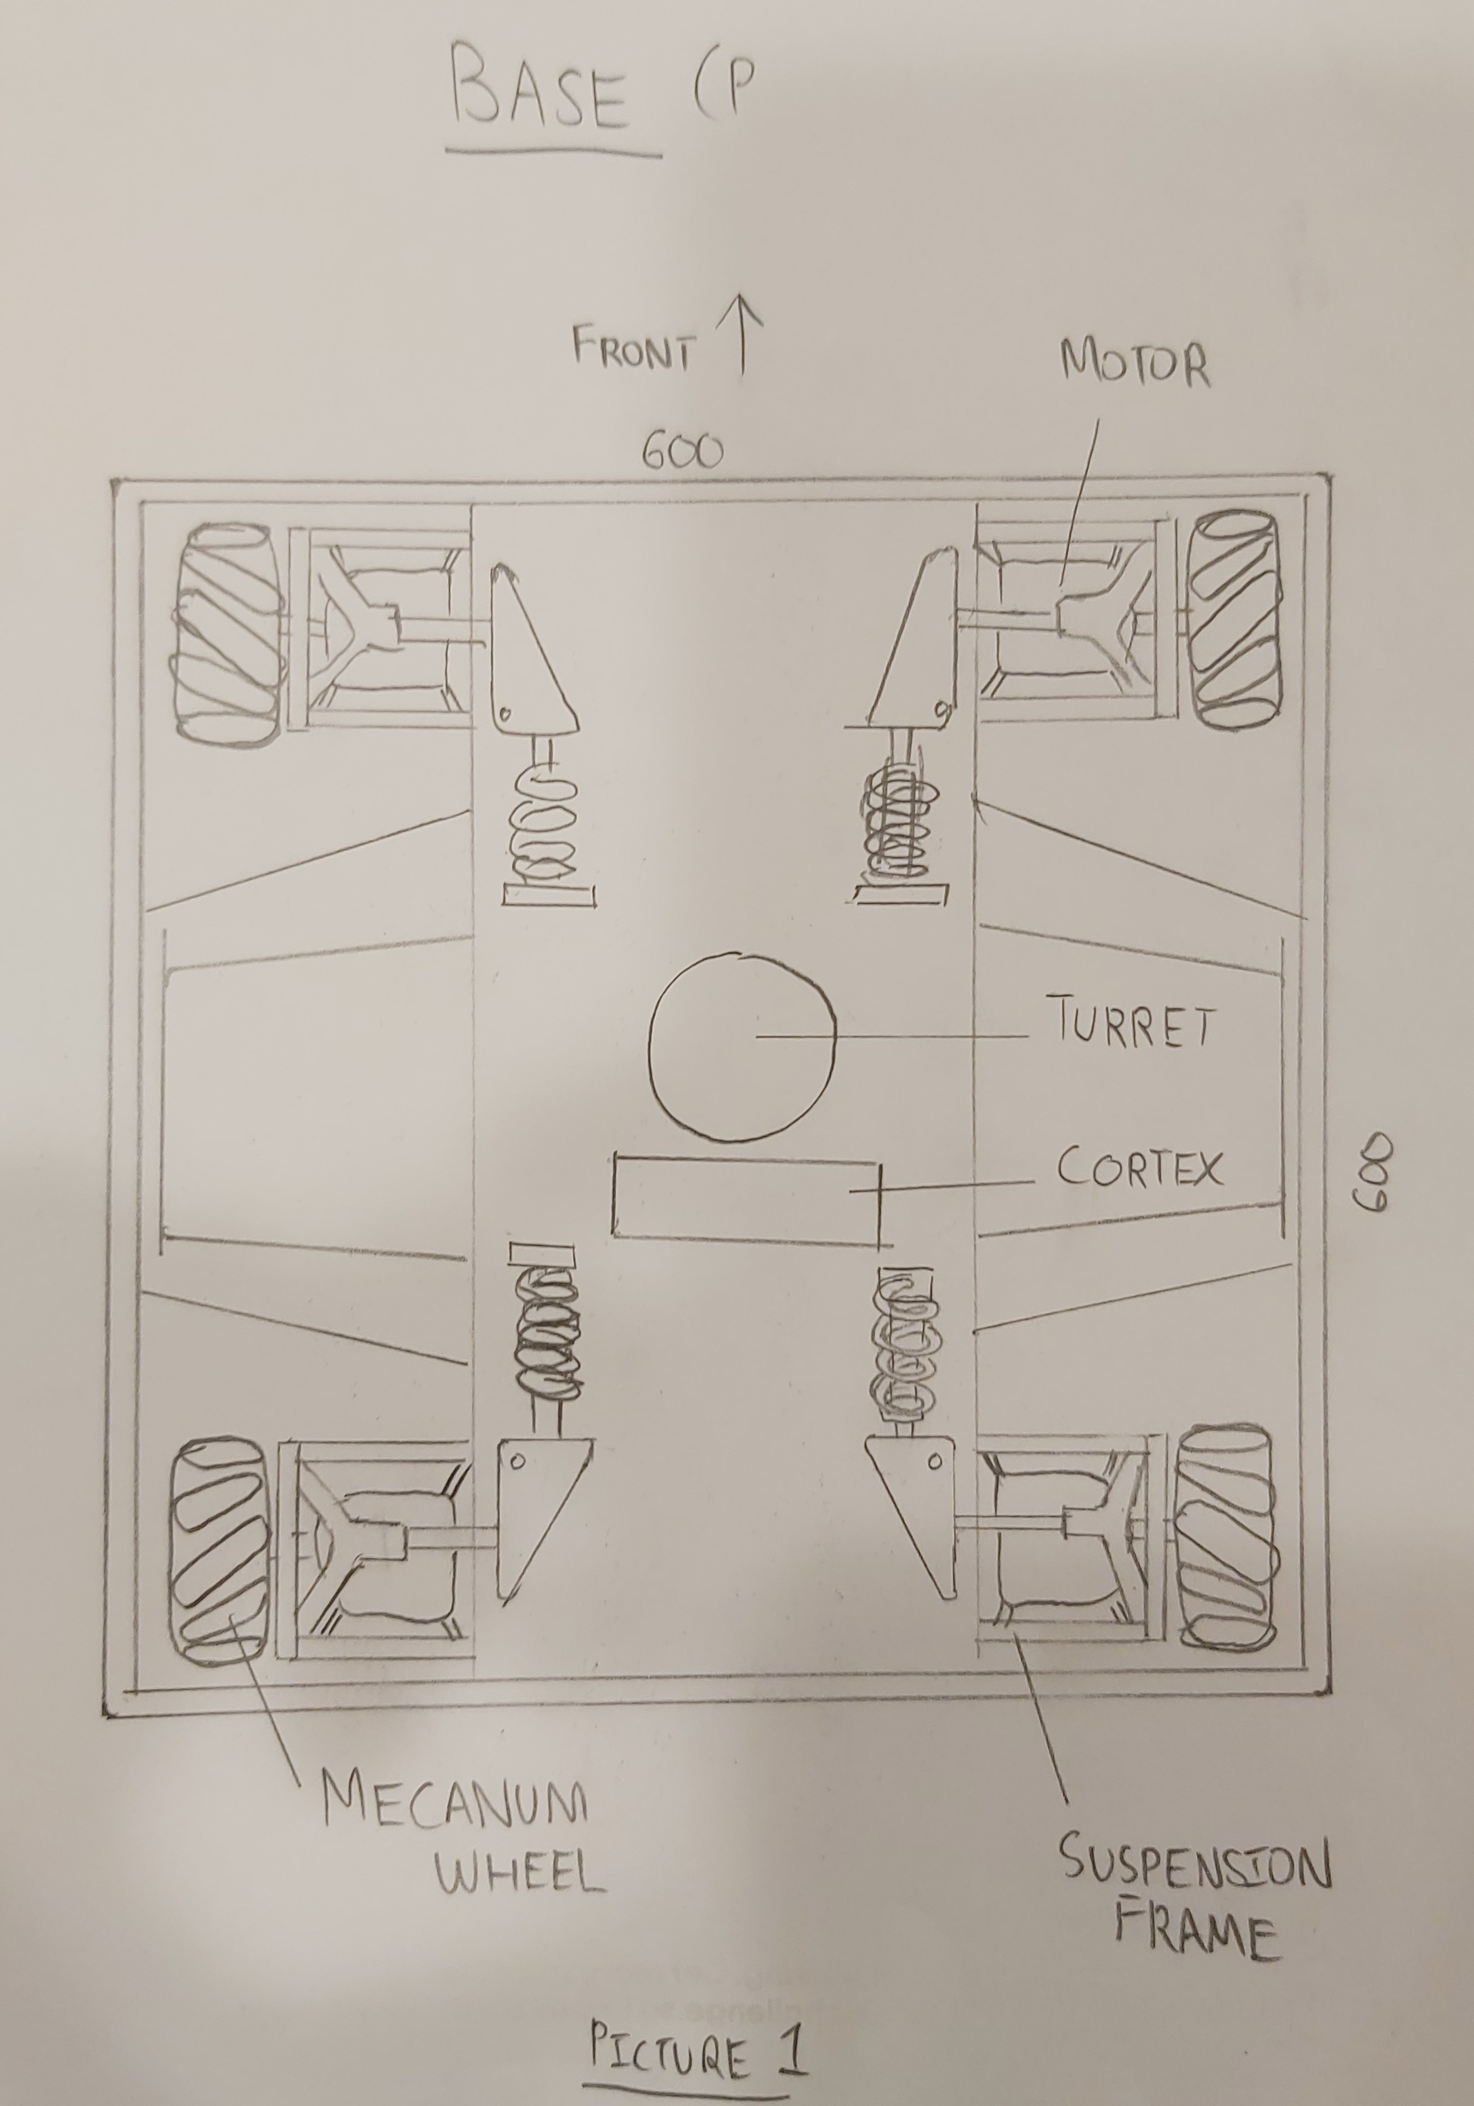
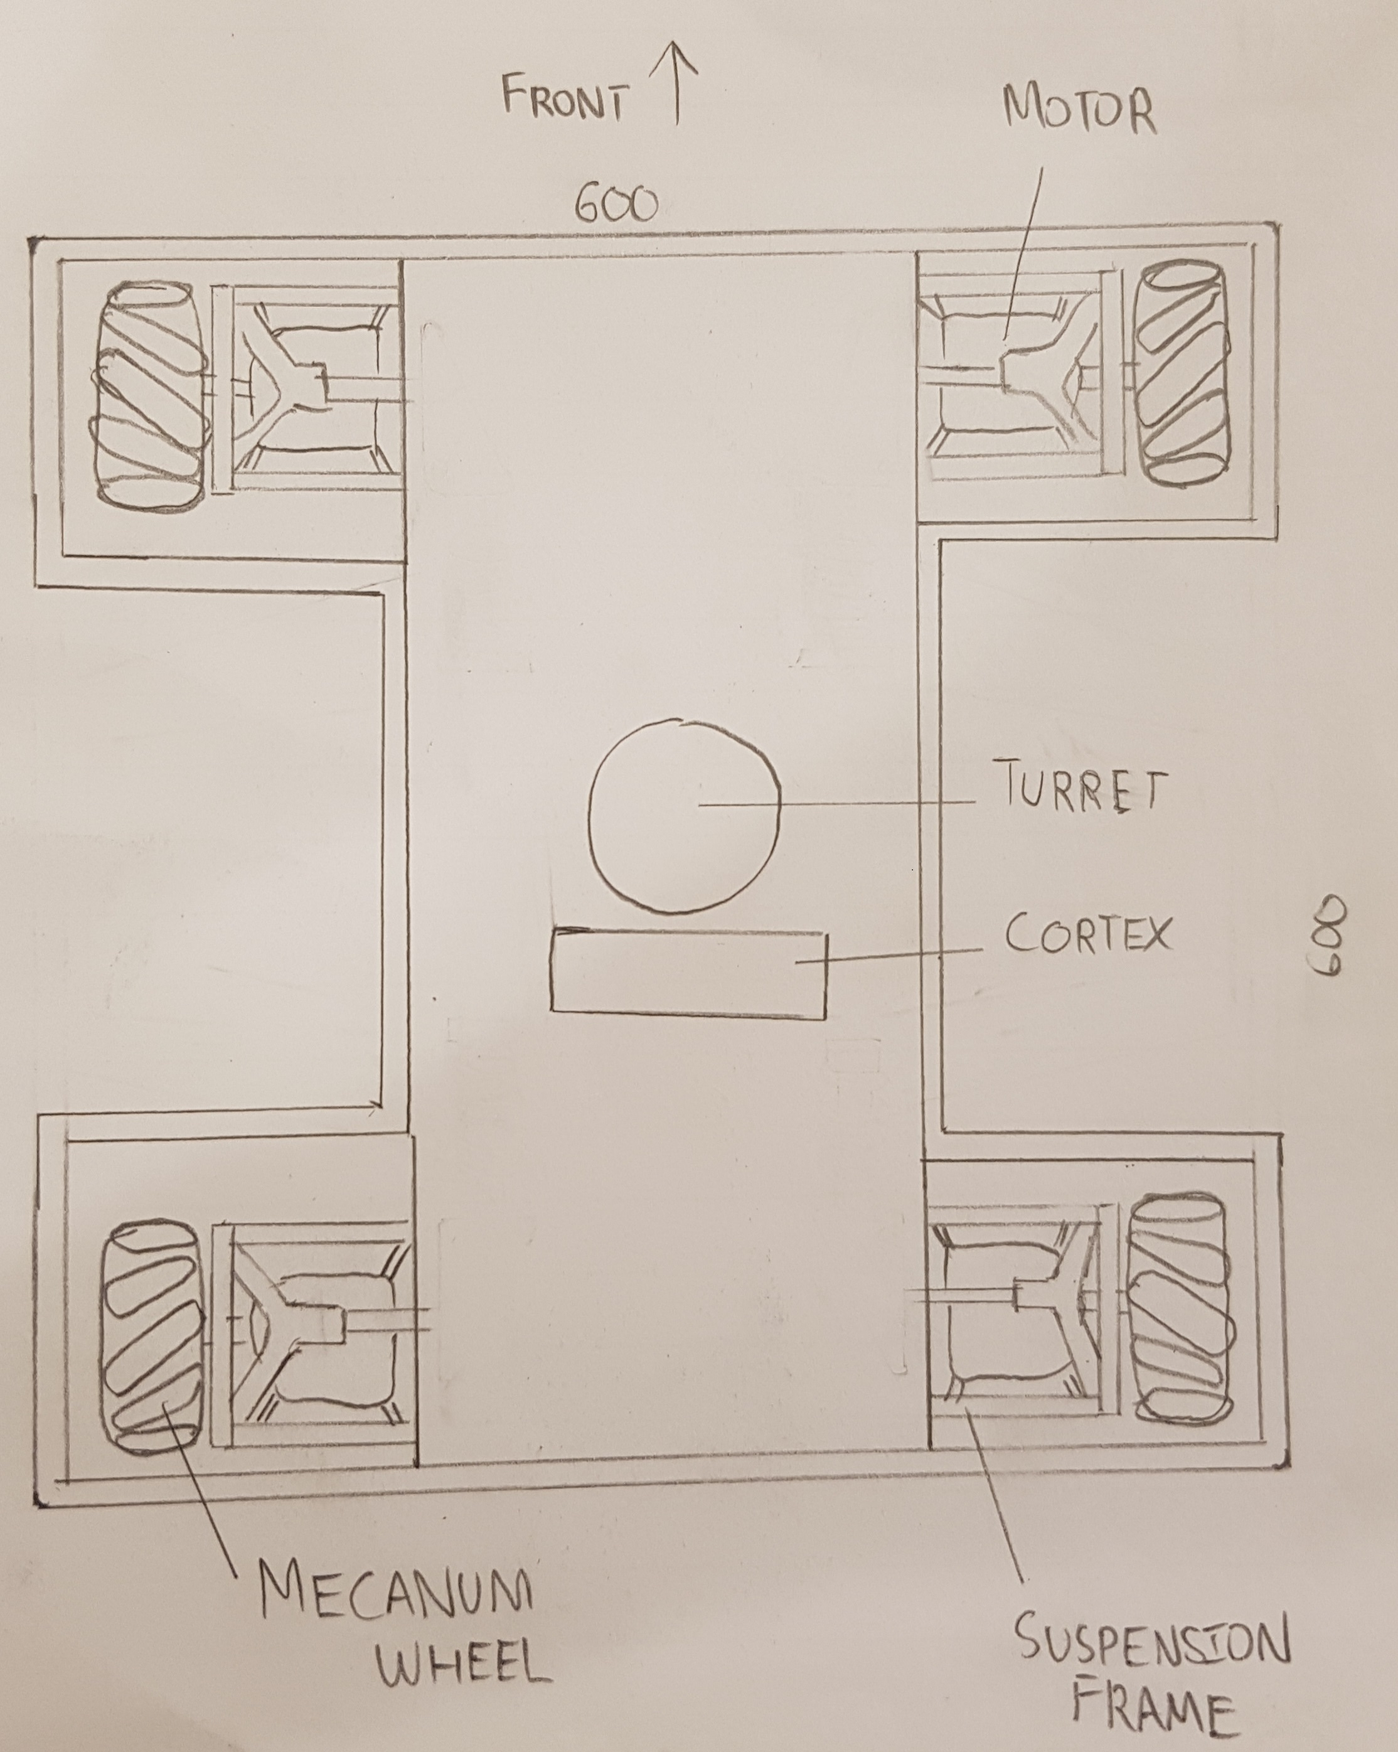
Dev/robo master (#66)
* draft 2.0

* draft 2.0

* draft 2.0

* draft 2.0

* draft 2.0

* draft 2.0

* draft 2.0

* draft 2.0

* draft 2.0

Changed region(s): [[0.0, 0.0312, 1.0, 1.0], [0.4645, 0.0312, 0.5265, 0.0623], [0.991, 0.0935, 1.0, 0.1246]]

diff --git a/docs/nav-teams/RoboCop.md b/docs/nav-teams/RoboCop.md
@@ -21,7 +21,7 @@ I am currently a year 1 Computer Science and Business Administration DDP student
 ### Proposed Manpower Arrangement
 No| Role          |  Description                        | Assigned to       | 
 --|---------------|---                                  |---                |
- 1|  Mechanical   |  Chassis; Suspension                |  Dung (Leader)   |
+ 1|  Mechanical   |  Chassis; Suspension                |  Dung (Leader)    |
  2|  Mechanical   |  Gun; Gimbals system                | Dung  |
  3|  Electrical   |  Power management; Electric Drive; Fail-safe   |  Nicholas |
  4|  Electronics  |  Sensor interface; Close-loop Control | Nicholas | 
@@ -38,83 +38,167 @@ No| Role          |  Description                        | Assigned to       |
 
 ## Robot Design Considerations
 
-### Base (Chassis & Wheels)
+### Functionality of robot:
 
-* Sizing abiding to compeition rules
-* Suspension system suitable to overcome field terrain and obstacles
-* Shock absorbers to avoid damage and bending of shaft, chassis and other components of the base
+A standard robot performs multi-role in a game, which could be summed up to the following:
+* attacking opponents robots including ground robots and sentry 
+* activating power runes by shooting at target following a sequence 
+* Shooting at base
+* Carry out various roles according to game strats: decoy, stationary shooting and defence, etc
 
-### Turret (Intake, Turning & Cannon)
+After watching through the games in the Grand Final round of 2019 competition, we agreed on these desired features for the standard robot: 
+* Agile and high mobility
+* Accurate shooting for a wide range of distances
 
-* Freedom of motion in horizontal and vertical direction for turret -> also self-stabilized to ensure stable shot on target
-* Projectile intake and magazine size 
-* Smooth projectile transmission to cannon 
-* Type of cannon 
+### General specifications:
 
-### Miscellaneous Parts
+First to make the robot agile and high mobility, we need to consider the weight, size, speed and acceleration of the robot with the following constraints: 
 
-* Choice of motor, cortex, materials for various parts
+ Weight   |  Size                        | Chassis Power      | 
+----------|---                           |---                |
+  20 kg   |  600 x 600 x 500             |  80 W    |
+  
+From observing the game, the maximum linear continuous traveling distance for the robot in a game is only 20 meters. In addition, it’s more important for the robot to have high initial acceleration to improve its agility. Hence, we aim to have our robot **accelerate to 2m/s within 0.7s and have a maximum speed of 4.5 m/s**. To achieve this, considering the weight and chassis power limit, we plan to have our robot to be weighted at around **15-16 kg**. It’s understandable that we can make our robot lighter to travel faster; however, we also planned to use mecanum wheels which has lower grip with ground surface (compared to a normal wheel). Hence, it’s important for the robot to be heavy enough for fast acceleration.
+
+Next, we split the robot’ components to four main areas: 
+* Chassis: including wheels, base, frame, etc. 
+* Turret: two axis self-stabilized gimbal system (horizontally and vertically turning)
+* Cannon: projectiles storage, transmission and launching
+* Miscellaneous parts
+
+A more detailed planning and general design for each of these areas will be discussed in the next section.
 
 ## General Design and Fabrication Method
 
-### Base (Chassis & Wheels)
+### Chassis:
 
-Firstly, we decided to have a square-shaped base with four mecanum wheel for our robot. The purpose of a metal square frame surrounding the robot is to ensure its sturdiness taken into account that collisions will happen in game. Mecanum wheels fit into this design since it can be mounted like normal wheel while providing the same style of movement as omni wheel.
+Our first consideration when designing the chassis is its sizing. We planned to have a square base of 600 x 600 which makes it easier to programme the base to spin still at a location (lower probability of getting hit by an enemy’s projectile). The robot will also be surrounded by an aluminium frame to ensure its sturdiness (take into account that there is collision happen in game).
 
 ![Base](./assets/robocop-base.jpg)
 
-![Side View of Wheel](./assets/robocop-wheelside.jpg)
+<p style="text-align: center;">Figure 1</p>
 
-Next, we decided to install an independent suspension system to each of the wheel. This allows the robot to overcome obstacles better without bending the chassis and other connecting axles and joints. In detail, we would employ a modified version of double wishbone suspension system which a draft of its can be seen in Pic 2 and Pic 3. The four joints shown in pic 2 are free to rotate and the degree of rotation is limited by the shock absorber system shown in Pic 3.  In addition, a second piston might be added to the lower two bars to increase sturdiness of suspension system. We will also have four motors with inbuilt encoder for each of the wheel. This will allow us to perform turning actions simply by coding the speed and rotation direction of each wheel and avoid the trouble of designing a steering system.
+
+We choose to install **mecanum wheels** for the robot since it can be mounted like normal wheel while providing the same style of movement as omni wheel. Each wheel will also has a motor directly attached to it. (allowing the robot to turn without a steering system). 
+
+Next, we would need to consider the base elevation. We are considering using Robomaster Mecanum Wheel, which has a diameter of 152.5 mm. This means the elevation of the robot at the radius level of the wheels would be 76.25mm. We observe that most of the slopes in game are at 17 degrees or 20 degrees, this means on an elevation of  minimumly 15 mm is needed for the robot to move smoothly up slope. Hence, we decided to keep the **base elevation at 76.25mm**. At this height, the CG is low enough to allow better turning and maneuver while still allow the robot to move through all terrains on field.
+
+In game, it is noticed that the robot has to jump over obstacles (Field element: Road Incline) or sometimes might jump while moving up slopes too fast. Hence, we decided to install an independent suspension system to each of the wheel. A modified version of **double wishbone suspension system combined with shock absorber** will be used to ensure robot can overcome obstacles better without bending the chassis and other connecting axles and joints. Figure 2 and 3
+
+![Wheelside](./assets/robocop-wheelside.jpg)
+Figure 2
 
 ![Suspension](./assets/robocop-suspension.jpg)
+Figure 3
 
-Some other consideration is the mounting of Health bar, Armour Plates and Cortex to the base. The details of these will be decided when a more detailed design is developed. The gearing ratio as well as exact design for shock absorber and suspension will also need to be calculated, modelled and prototyped.
+**Fabrication method**
+* Choice of material for metal frame: aluminium 
+* Wheels’ motor: **RoboMaster M3508 P19 Brushless DC Gear Motor**
 
-### Turret (Intake + Turning + Cannon)
+### Turret (Self-Stabilized Gimbal System):
 
-![Turret](./assets/robocop-turret.jpg)
+Since we are using 2-axis gimbal system, we will need two Brushless DC motor to allow the turret to move in the pitch and yaw axis. The turret will be designed to be able to make 360 degrees rotation in Yaw axis and <180 degrees rotation in Pitch axis.
 
-Our design for the intake and cannon resembles to that of a tennis ball machine. The intake and projectiles container will be a square box. (Pic 4) The intake will lead to a tray + conveyor belt system with the width of the tray to be roughly 20mm so that projectiles move through the tray in single file.  Between the projectiles container leading to the tray will be funnel designed such that the ball is delivered in one by one to avoid jamming. At the end of the tray is a stopper. (Pic 4) The stopper is pulled down when the turret shoot and released back when not shooting. The cannon will employ a double flywheel system consisting of two soft rolling wheel putting 16 mm horizontally
+![Rotations](./assets/robocop-rotations.jpg)
 
-A gimbal self-stabilized turret will also be designed for the cannon to ensure its smooth movement horizontally and vertically as well as stability while moving and shooting at the same time. 
-
-Laser pointer will be attached below gun barrel while camera with vision sensor above (not directly attached to the barrel but above.)
-
-### Fabrication Method
-
-* The main material used for the frame and chassis during prototype phase is aluminium. This is because aluminium is light and is relatively easy to modify compared to other metals. Steel might be tested for the outer frame of the robot. However, weight is a consideration since steel is three times heavier than aluminium. 
-* Most of the plastic parts of the robots will be 3D-modelled and 3D-printed. 
-* Some other parts that are required and need to be sourced are: metal screws, nuts, spacing, brusher, metal shaft, bearings and gears. 
+Figure 4
 
 
-### Miscellaneous Parts
+The general design of the gimbal system is as follows: 
 
-#### Processor: Manifold 2-G (128GB) General
-There are two versions of the Manifold 2. Since we will be doing image processing and applying vision algorithms to our vision sensors, and neural networks to implement machine learning algorithms which requires high computational intensity and the high amount of parallelism, we decided that the TX2 version would be a better choice.
+![pitch](./assets/robocop-turretpitch.jpg)  ![Belt](./assets/robocop-turretbelt.png)
+<center>Figure 5: mechanism for pitch rotation</center>
 
-There is another processor called the Intel NUC.  However, Intel NUC with Core i5 could be better in processing but its price is almost equal to TX2 where TX2 has 256 core GPU that is way powerful than core i5 cpu for Computer Vision applications.
+*All pictures for gimbal mechanism was retrieved from https://www.youtube.com/watch?v=zCV0viLxYUY*
 
-#### Motors
 
-* RoboMaster M3508 P19 Brushless DC Gear Motor
-* RoboMaster C620 Brushless DC Motor Speed Controller 
-* RoboMaster GM6020 Brushless DC Motor
-* M2006 P36 Brushless DC Gear Motor
 
-#### Battery: Zeee Lipo Battery Pack 5200mAh 50C 22.2V 6S RC Lipo Batteries with XT90 (XT60/EC5) Plug
+Using a 100rpm motor and a 1:2 ratio for the motor and gear connected to the cannon, we can change the turret pitch by 300 degrees per second, or 48 degrees in 0.16 seconds.
 
-Battery capacity must not exceed 200Wh as stated by the rules. We need 24V to power the motor at nominal voltage. Ideally an 8s battery would be able to provide the nominal voltage. However, we would need additional step down converter. Hence we decided to go for the 6s version which provides 22.2V. 
+![yaw](./assets/robocop-turretyaw.jpg)
 
-Operating a motor at a voltage below nominal generally has no detrimental effect on performance. In fact, running a motor at lower than nominal voltage (and, therefore, slower than nominal speed) can result in less brush and commutator wear (for brushed motors), lower current consumption, and longer motor life. (Collins, 2017)
+<center>Figure 6: Mechanism for yaw rotation</center>
 
-Furthermore, the MCU can only support up to 6s LiPo battery.
+*All pictures for gimbal mechanism was retrieved from https://www.youtube.com/watch?v=zCV0viLxYUY*
 
-#### Laser: 650nm 5mW Focusable Red Dot Laser Module Laser Generator Diode
 
-#### IMU: VN-100 Rugged
 
-We have decided to use the VN-100. As we do not require GPS on the inertial sense model. We are currently requesting the quote for the price. 
+The circular base for the yaw rotation mechanism will be 20 cm in diameter. To rotate the entire turret, we will be using the Robomaster M3508 Gear Motor, which has a maximum rotational speed of 469rpm with a continuous 3 Nm torque. Theoretically, by using a 1:5 transmission ratio, we can make the turret rotate 360 degrees in 0.96 seconds, or alternatively, rotate the turret by 90 degrees within 0.24 seconds. This will allow the operator to change the direction of their aim faster.
+
+As for the active, automatic stabilisation, a gyroscope will be attached to the chassis to record changes in orientation of the chassis. The data will be fed to the processor, which will rotate the pitch and yaw of the turret to maintain the same firing angle.
+
+### Cannon (Double flywheel launcher system):
+
+![turret](./assets/robocop-turret.jpg)
+Figure 7
+
+
+For the launcher, we intend to use a double flywheel launcher system. Some of the considerations we have taken into the designs include: 
+* **Short range combat**: a fast and consistent shooting rate needed
+* **Long range shot**: It is noticed that the power runes in game are normally activated from the bridge top platform since it is elevated (nearer to the high hanging power rune). The distance from the bridge to the power rune is estimated to be around 8000 mm. Hence the cannon must be able to shoot target accurately at this range. (on single fire mode)
+* **Barrel heat**: Following the competition rule on barrel heat, we calculated the desired round per second (rps) for our cannon as below:
+
+Max heat | Cooling          |  Shooting speed (m/s)   | Shooting time (s)   | Shooting rate (rps)  |
+-----    |---------------   |---                      |---                  | ---                  |
+240      | 40               | 30                      | 20                  | 1.7                  |
+360      | 60               | 30                      | 20                  | 2.6                  |
+480      | 80               | 30                      | 20                  | 3.4                  |
+
+The calculation is made with the assumptions that the shooting speed is consistently 30 m/s and the cannon fire for 20 sec non-stop (higher rate can be used while shooting in shorter duration) . However, this is the most extreme case as normally the continuous shooting time is normally lower in match. Hence we aimed to design our indexing mechanism such that the cannon achieve a maximum output of 5 projectiles per second.
+
+We intend to use the motor shown in the image below to power the flywheels.
+
+![turret](./assets/robocop-flywheelmotor.jpg)
+Figure 8: Motor for flywheel
+
+We intend to fire projectiles at the maximum allowed velocity of 30m/s. Based on our calculations, if the motor is spinning at 7000rpm, the diameter of each flywheel needs to be 80 mm for the launcher. The two wheels will also be spaced 16 mm apart horizontally since the projectile’s diameter is 17mm. 
+
+The ammo box will be located at the top part of the robot and it will take the shape of a funnel to ensure that the projectile will go into the conveyor belt one by one. This is to avoid jamming during the loading of projectiles from the ammo box into the conveyor belt. Subsequently, we will use indexing mechanism as a stopper. This means that each projectile delivered by the conveyor belt will be stored in the groove of the stopper and will be passed one by one to the barrel. This will ensure that there is no jam during the loading of projectiles into the barrel where the projectile will be shot through double flywheel system
+
+![indexing](./assets/robocop-indexing.png)
+
+Figure 9
+
+
+The motor we chose for this should have a higher stalling capacity to prevent jams but a lower rpm since we do not need projectiles to be fed into the flywheel at such a high rate. Hence, we chose the motor shown below.
+
+![indexing](./assets/robocop-indexingmotor.jpg)
+
+Figure 10
+
+Assuming that the indexing mechanism has 8 grooves, a 40RPM rotation from the motor would allow us to achieve our target of 5 projectiles fired per second.
+
+### Miscellaneous parts:
+
+* **Cortex**
+
+**NVIDIA Jetson TK1**: $165. 192-core Kepler GK20a GPU, it delivers a performance of 300 GFLOPs. TK1 doesn’t have onboard WiFi or Bluetooth. However, these can be added via USB or the mini-PCIe port.
+
+* **3D Camera**
+
+There is a huge array of cameras for robot vision. We used this decision-making tree to aid us in choosing the right camera for our robot:
+
+![chart](./assets/robocop-3dcamerachart.jpg)
+Figure 11
+
+ https://www.electronicproducts.com/Robotics/Designer_s_guide_to_robot_vision_cameras.aspx
+
+
+
+ Our robot does not need an extremely high-quality image in order to detect the in game objectives and hence we have chose the CMOS based robot vision camera due to its price, power consumption, as well as processing power needed to process the image.
+The higher the resolution the more information our algorithm will have and the more computational CPU power we will need to process it, the lower the resolution the easier it is to process it quickly and the cheaper our system will be. Given our requirements, we select the **OpenMV Cam H7**.
+
+link : https://www.sgbotic.com/index.php?dispatch=products.view&product_id=2840
+Price: SGD 109.96
+
+* **MCU**: RoboMaster Development Board Type A (STM32F427)
+Price: USD 105
+
+* **Battery**: DJI TB48 Intelligent Flight Battery for Inspire I (5700MAH)
+Price: SGD 261.68
+
+* **Laser**: 650nm 5mW Focusable Red Dot Laser Module Laser Generator Diode
+Price: $11 SGD
 
 ### Proposed Budget
 
